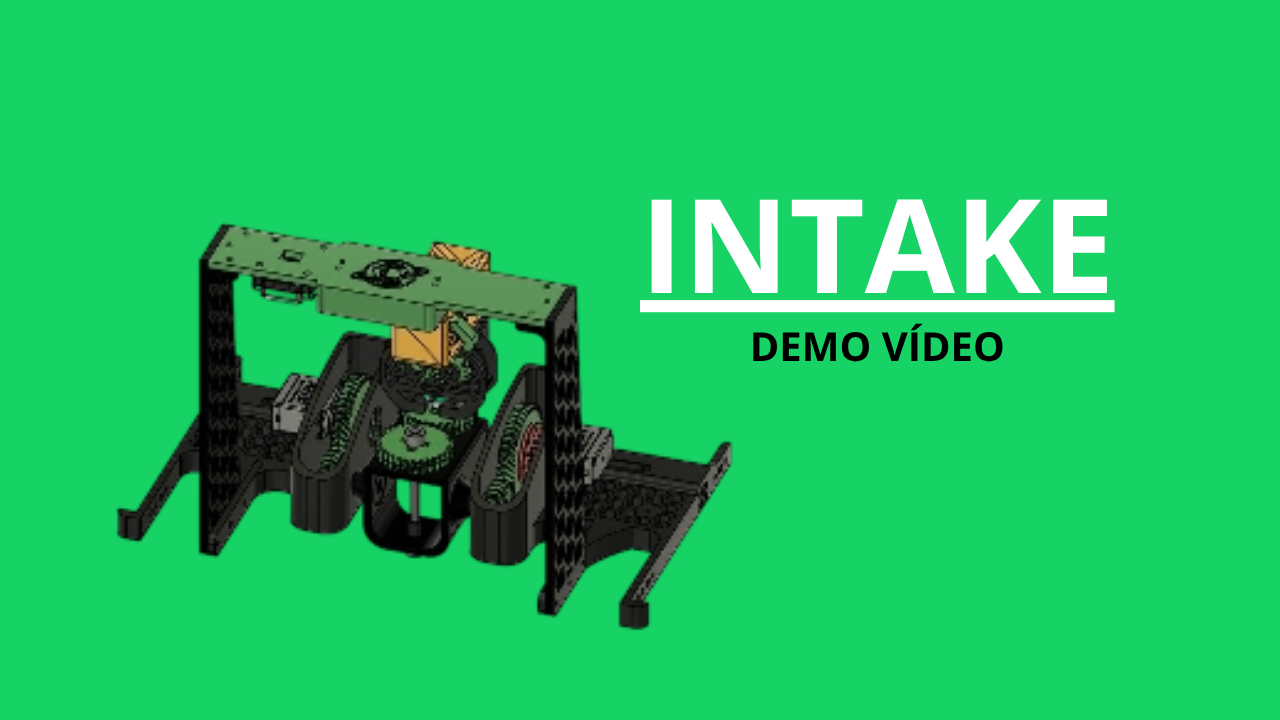
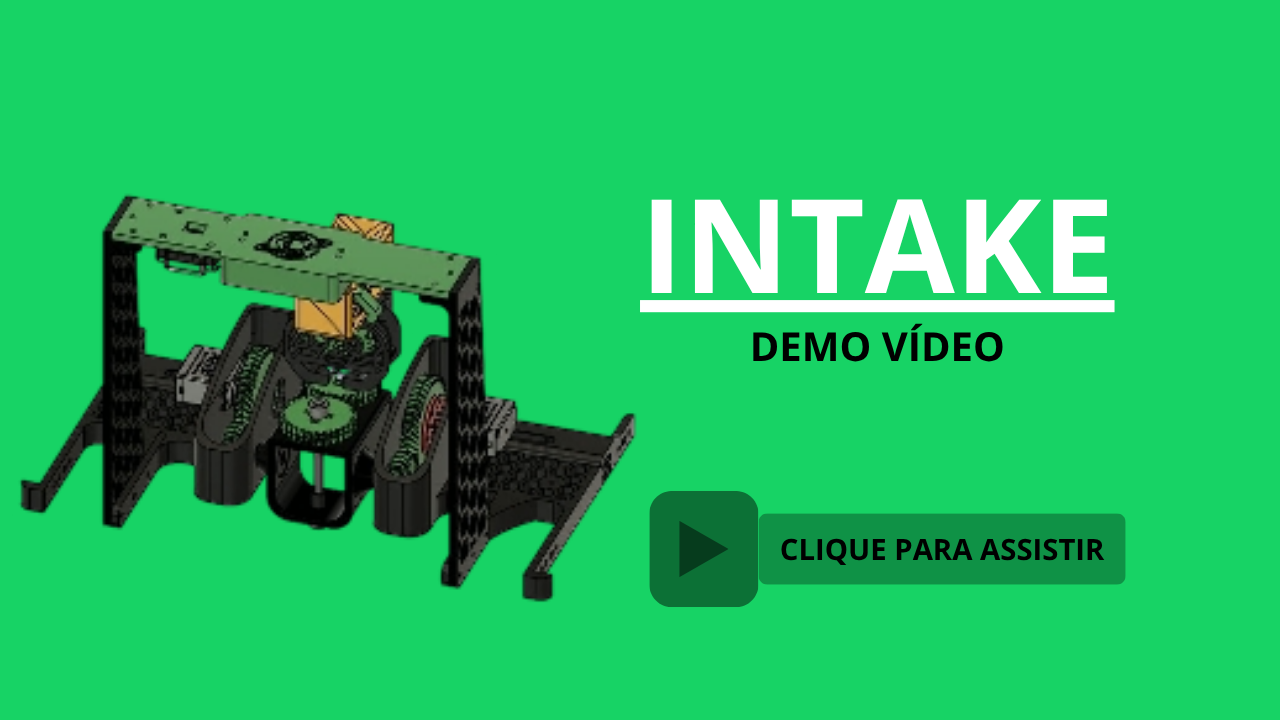
tubnails

Changed region(s): [[0.0, 0.275, 0.9062, 0.8861]]

diff --git a/README.md b/README.md
@@ -101,10 +101,6 @@ Inspirada no sistema diferencial dos automóveis, a nossa garra foi desenvolvida
   </a>
 </p>
 
-
-https://github.com/user-attachments/assets/b7defe61-2e17-4f4e-9bdc-3461cfbcb212
-
-
 ### Outtake (Pontuação): Shooting Star V3
 
 <p align="center">
@@ -121,8 +117,6 @@ O Shooting Star V3 incorpora o mecanismo CV4B (Coaxial Virtual Four-Bar), que pe
     <img width="700px" src="assets/images/1.png">
   </a>
 </p>
-
-https://github.com/user-attachments/assets/68815073-1c05-46ef-be1b-91d6254df0e5
 
 <br>
 ---